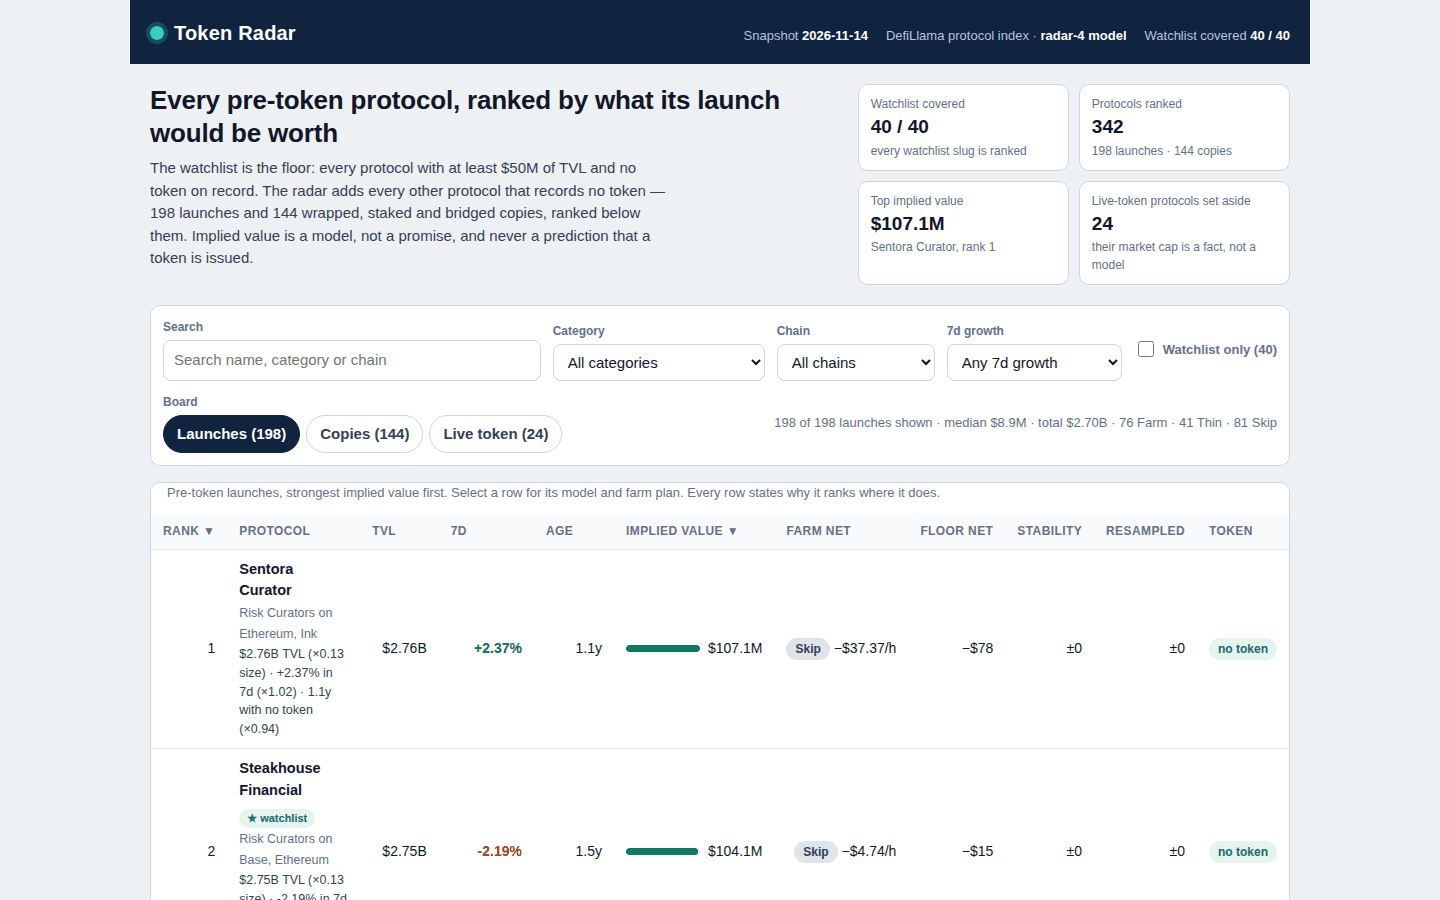
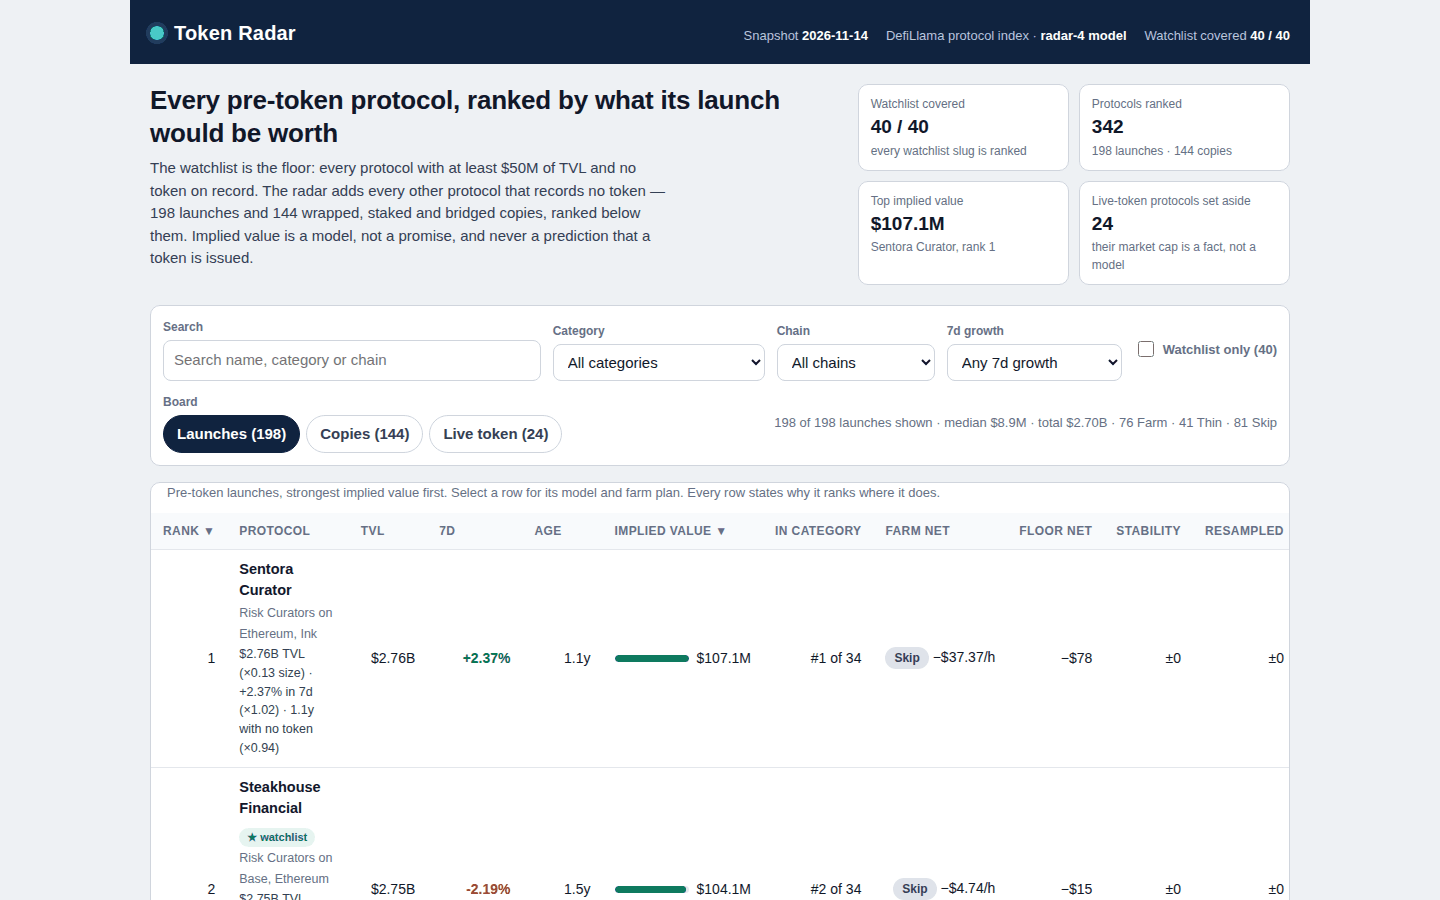
Quality round 10: in-category peer rank column, sortable leaders-first
Every board row now carries its rank among the launches (or copies) that
share its category, by implied value — the peer comparison the
within-sector comparables curve is fitted on, previously invisible
behind the global rank alone. New sortable 'In category' column
(#sort=catrank shows every category's leader first: 33 launch leaders,
15 copy leaders), one peer-rank sentence in the detail view, and a
model-panel key explaining it. 325/342 rows have peers; the 17 singleton
rows say so instead of wearing a #1.

Formula untouched (MODEL_VERSION stays radar-4): 0 rank/slug/implied
diffs vs ac5b969; verdicts 76 Farm / 41 Thin / 81 Skip unchanged.
GitHub research this round (logic_traces.md 9-10): DYOR same-class
percentile pattern adopted as this display; Theil-Sen/L1 robust fits,
category TVL-share dominance, and relative momentum all measured and
rejected — paired CV 90% CIs include 0. Gate 7/7, determinism 3 runs,
tsc strict 0 errors.

diff --git a/dashboard/app.js b/dashboard/app.js
@@ -30,7 +30,9 @@
 // plan's gas against the position's pro-rata share of its implied value, in dollars per
 // hour of hands-on work, a middle-half range for its implied value (0.27x-3.64x the
 // curve), its rank at size exponents 0.45 and 0.55, its own median rank move across
-// 1,000 resamples of the live set, and its factual watch-outs. No protocol name is special-cased anywhere in this file.
+// 1,000 resamples of the live set, its rank among its own category's rows in the same
+// tier — the peer comparison the value curve is fitted on — and its factual watch-outs.
+// No protocol name is special-cased anywhere in this file.
 (function () {
   'use strict';
 
@@ -211,6 +213,15 @@
       var b = r.rank_at_055 === undefined ? r.rank : r.rank_at_055;
       return -Math.max(Math.abs(r.rank - a), Math.abs(r.rank - b));
     },
+    // In-category rank: where the row stands among the launches (or copies) that
+    // share its category, by implied value. Negated, so the default direction
+    // (largest first) shows every category's leader first — the "best in each
+    // category" view. The value curve is a within-sector comparables curve, so
+    // the peer rank is the comparison the model itself is built on. Live rows
+    // carry no peer rank, so they sort last.
+    catrank: function (r) {
+      return (r.category_rank === undefined || r.category_rank === 0) ? -Infinity : -r.category_rank;
+    },
     implied: function (r) { return r.implied_value_usd === undefined ? (r.mcap_usd || 0) : r.implied_value_usd; }
   };
   function sortedRows(list) {
@@ -364,6 +375,7 @@
           el('div', { class: 'bar' + (r.tier === 'copy' ? ' copy' : ''), 'aria-hidden': 'true' }, el('i', { style: 'width:' + Math.max(3, Math.round((r.implied_value_usd / max) * 100)) + '%' })),
           el('span', { class: 'num', text: fmtUsd(r.implied_value_usd) })
         )),
+        el('td', { class: 'num', title: 'Rank among the ' + (r.category_size || 0) + ' ' + (r.tier === 'copy' ? 'copies' : 'launches') + ' in ' + (r.category || 'Other') + ', by implied value — the peer comparison the value curve is fitted on', text: '#' + r.category_rank + ' of ' + r.category_size }),
         el('td', { class: 'num', title: 'Farm net ' + ((r.farm_net_usd || 0) >= 0 ? '+$' : '−$') + Math.abs(r.farm_net_usd || 0).toLocaleString('en-US') + ' after gas' },
           el('span', { class: 'verdict v-' + (r.farm_verdict || 'Skip').toLowerCase(), text: r.farm_verdict || 'Skip' }),
           ' ' + fmtPerHour(r.farm_per_hour_usd)
@@ -389,6 +401,7 @@
             sortHeader('growth', '7d'),
             sortHeader('age', 'Age'),
             sortHeader('implied', 'Implied value'),
+            sortHeader('catrank', 'In category'),
             sortHeader('farm', 'Farm net'),
             sortHeader('floor', 'Floor net'),
             sortHeader('stable', 'Stability'),
@@ -519,6 +532,7 @@
         el('div', { class: 'key' }, el('b', { text: 'Growth, bounded' }), el('span', { text: 'Rising TVL lifts value at 0.8×; falling TVL cuts it at 1.2×. Clamped to −80%…+200%, and the multiplier itself never falls below 0.5× or rises above 1.6×: the TVL already records the week\u2019s move, so one week never erases or triples a value.' })),
         el('div', { class: 'key' }, el('b', { text: 'Age, logarithmic' }), el('span', { text: 'Longer with no token means more pent-up value, rising fast then levelling off. Unknown age counts as 365 days.' })),
         el('div', { class: 'key' }, el('b', { text: 'Category, fitted small' }), el('span', { text: 'A category pays a little more or less than the size curve alone says — Lending 0.80×, Yield 0.84×, RWA 1.14×, Basis Trading 1.19× — fitted from the live protocols of that category, shrunk toward 1 and never beyond 0.80–1.25×.' })),
+        el('div', { class: 'key' }, el('b', { text: 'In-category rank, the peer comparison' }), el('span', { text: 'Every row also carries its rank among the launches or copies that share its category, by implied value — the In category column, sortable so every category\u2019s leader comes first. The curve is a within-sector comparables curve, so the peer rank is the comparison the model itself is built on, not a second ranking.' })),
         el('div', { class: 'key' }, el('b', { text: 'Likely range, from the live scatter' }), el('span', { text: 'Every row\u2019s implied value carries a middle-half range: the 25th to 75th percentile of market-cap / curve among the live protocols (' + (m.interval ? '×' + m.interval.lo + '–×' + m.interval.hi : 'see the detail view') + '). Wide on purpose — market caps scatter widely at any TVL — and shown on each protocol\u2019s detail view.' })),
         el('div', { class: 'key' }, el('b', { text: 'Farm verdict, netted in dollars' }), el('span', { text: 'Every row is Farm, Thin or Skip: the plan\u2019s whole gas bill netted against the position\u2019s pro-rata share of its implied value. Farm means at least $20 stays after gas at $5 or more an hour of hands-on work; Thin means something stays; Skip means the gas costs more than the share. Pro-rata is a yardstick for ranking farms, never a promise of what one pays.' })),
         el('div', { class: 'key' }, el('b', { text: 'Rank stability, resampled' }), el('span', { text: 'Every row shows its rank at exponents 0.45 and 0.55, and the board sorts by Stability to show the steadiest ranks first. Resampling the live set 1,000 times keeps ranks 1–3 exact every time — and shows the middle of the board moves, so the resampling note below is part of the model, not a footnote. Each protocol\u2019s detail view also shows its own median move across the 1,000 resamples, and the Resampled column sorts by it.' })),
@@ -572,6 +586,12 @@
       : 'The smallest ' + (row.tier === 'copy' ? 'copy' : 'launch') + ' on the board.';
     var byTvl = DATA.rows.slice().sort(function (a, b) { return b.tvl_usd - a.tvl_usd; });
     context += ' Its TVL ranks #' + (byTvl.indexOf(row) + 1) + ' of ' + DATA.board_size + ' on the board.';
+    // Where it stands among its own category's rows in the same tier — the peer
+    // comparison the value curve is fitted on, since the curve is a within-sector
+    // comparables curve. A row alone in its category says so instead of wearing a #1.
+    context += row.category_size > 1
+      ? ' In ' + (row.category || 'Other') + ', it ranks #' + row.category_rank + ' of ' + row.category_size + ' ' + (row.tier === 'copy' ? 'copies' : 'launches') + ' by implied value.'
+      : ' It is the only ' + (row.category || 'Other') + ' ' + (row.tier === 'copy' ? 'copy' : 'launch') + ' on the board.';
     dialog.appendChild(el('div', { class: 'detail-head' },
       el('div', null,
         el('span', { class: 'kicker', text: 'Rank ' + row.rank + ' of ' + DATA.board_size + (row.tier === 'copy' ? ' · wrapped / staked copy' : ' · pre-token launch') }),

diff --git a/lib/model.ts b/lib/model.ts
@@ -70,7 +70,10 @@
 // every row carries its own median move across the 1,000 resamples, so the detail view
 // can say how far this rank moves; and
 // every row carries its rank at size exponents 0.45 and 0.55 plus its factual
-// watch-outs, so the detail view can say how far this rank moves and what to watch.
+// watch-outs, so the detail view can say how far this rank moves and what to watch —
+// and its rank among its own category's rows in the same tier, so the detail view
+// and the board can say where it stands against the peers the value curve is
+// fitted on, not only where it sits on the whole board.
 
 /** The snapshot's protocol entry: exactly the ten fields the sealed input carries. */
 export interface SnapshotProtocol {
@@ -211,6 +214,16 @@ export interface BoardRow {
    *  the bootstrap does not refit, and until bootstrapStability has run. */
   rank_boot_med: number | null;
   rank_boot_p90: number | null;
+  /** Where this row stands among its own category's rows in the same tier:
+   *  its rank by implied value among the launches (or copies) that share its
+   *  category, and how many rows that peer group holds. The value curve is a
+   *  within-sector comparables curve — a category's own live protocols set its
+   *  factor — so the peer rank is the comparison the model itself is built on:
+   *  a reader sees whether the row leads its category or trails it, instead of
+   *  only where it sits on the whole board. Filled in by buildBoard, which
+   *  knows the whole board; until then 0, never a guess. */
+  category_rank: number;
+  category_size: number;
   /** Factual watch-outs from the snapshot's own fields (see riskFlags):
    *  'single-chain', 'shrinking-7d', 'very-young', 'age-unknown'. */
   risk_flags: string[];
@@ -253,6 +266,8 @@ export interface RadarRow {
   rank_at_055: number;
   rank_boot_med: number | null;
   rank_boot_p90: number | null;
+  category_rank: number;
+  category_size: number;
   risk_flags: string[];
   tier: Tier;
   watchlist: boolean;
@@ -664,6 +679,24 @@ export function buildBoard(snapshot: Snapshot, model: ModelConstants = MODEL): B
   rows.forEach((r, i) => {
     r.rank = i + 1;
   });
+  // Each row's rank among its own category's rows in the same tier: the rows
+  // arrive in implied-value order within each tier, so a peer group's order in
+  // `rows` is its order by value, and the position in the group is the peer
+  // rank. 48 tier+category groups; 325 of the 342 rows have peers, 17 are the
+  // only row of their category in their tier.
+  const peers = new Map<string, BoardRow[]>();
+  for (const r of rows) {
+    const key = `${r.tier}|${r.category ?? ''}`;
+    const g = peers.get(key);
+    if (g !== undefined) g.push(r);
+    else peers.set(key, [r]);
+  }
+  for (const g of peers.values()) {
+    g.forEach((r, i) => {
+      r.category_rank = i + 1;
+      r.category_size = g.length;
+    });
+  }
   // Each row's rank at the neighbouring exponents, from the same ranking run
   // with only the exponent changed — the per-row half of the sensitivity
   // table, so the detail view can say how far this rank moves.
@@ -703,11 +736,14 @@ function toRow(p: SnapshotProtocol, v: { growthPct: number; growthMult: number; 
     // Alt-exponent ranks are filled in by buildBoard, which knows the whole
     // board; until then they are the row's own rank, never a guess. The
     // bootstrap medians are filled in by bootstrapStability, which runs after
-    // the board is built; until then they are null, never a guess.
+    // the board is built; until then they are null, never a guess. The
+    // category rank is filled in by buildBoard the same way; until then 0.
     rank_at_045: 0,
     rank_at_055: 0,
     rank_boot_med: null,
     rank_boot_p90: null,
+    category_rank: 0,
+    category_size: 0,
     risk_flags: riskFlags(p, v.age),
     model: {
       base_multiple: MODEL.base_multiple,
@@ -1246,6 +1282,8 @@ export function radarRow(row: BoardRow, watchlist: Set<string>): RadarRow {
     rank_at_055: row.rank_at_055,
     rank_boot_med: row.rank_boot_med,
     rank_boot_p90: row.rank_boot_p90,
+    category_rank: row.category_rank,
+    category_size: row.category_size,
     risk_flags: row.risk_flags,
     tier: row.tier,
     watchlist: watchlist.has(row.slug),

diff --git a/main.ts b/main.ts
@@ -10,7 +10,8 @@
 // code agree. The board also carries each row's farm verdict (Farm / Thin / Skip, netted in
 // dollars per hour of hands-on work), its middle-half value range, its rank at size
 // exponents 0.45 and 0.55, its own median rank move across 1,000 bootstrap resamples,
-// its factual watch-outs, and the bootstrap stability of the whole ranking, so the
+// its rank among its own category's rows in the same tier, its factual watch-outs, and
+// the bootstrap stability of the whole ranking, so the
 // dashboard can show how solid each rank is and where the ranking moves.
 // Outside the grader's container, MAKEFUN_OUTPUT_DIR stands in for /output.
 

diff --git a/README.md b/README.md
@@ -93,6 +93,18 @@ implied = round( tvl_usd × 0.30 × (50,000,000 / tvl_usd)^0.5
   than under the exponent alone), and its
   factual watch-outs in the detail view: one chain only, shrinking TVL,
   listed under 90 days ago, no listing date on record.
+- **In-category rank, the peer comparison** — every row also carries its rank
+  among the launches or copies that share its category, by implied value: the
+  board's In category column, sortable so every category's leader comes first
+  (33 leaders on the launch tab, 15 on the copy tab), and the detail view states
+  it next to the global rank ("In Risk Curators, it ranks #1 of 34 launches by
+  implied value"). The value curve is a within-sector comparables curve — a
+  category's own live protocols set its factor — so the peer rank is the
+  comparison the model itself is built on, not a second ranking. A row alone in
+  its category (17 of the 342) says so instead of wearing a #1. The peer rank
+  is computed from the snapshot on every run, never hand-set; 325 of the 342
+  rows have peers. It is a display of where the row stands among its
+  comparables — it does not change the value, the rank, or the verdict.
 - **Likely range** — every row carries a middle-half range for its implied
   value: the 25th to 75th percentile of market-cap / curve among the live
   protocols (0.27×–3.64×). Wide on purpose — market caps scatter widely at any
@@ -179,7 +191,9 @@ runs write identical bytes.
   and checks it against board.json; watchlist rows wear a ★ badge, the count line
   shows the filtered set's median, total and farm-verdict counts, the Farm net
   column sorts the board by dollars per hour of hands-on work, the Floor net
-  column sorts it by the farm's net at the low end of the likely range, and the Live tab shows each live
+  column sorts it by the farm's net at the low end of the likely range, the In
+  category column shows each row's rank among the launches or copies that share
+  its category (sortable, leaders first), and the Live tab shows each live
   protocol's market-cap/TVL ratio).
 - `screenshots/` — 1-board.png, 2-detail.png, 3-filtered.png.
 - `LICENSE` — MIT.
